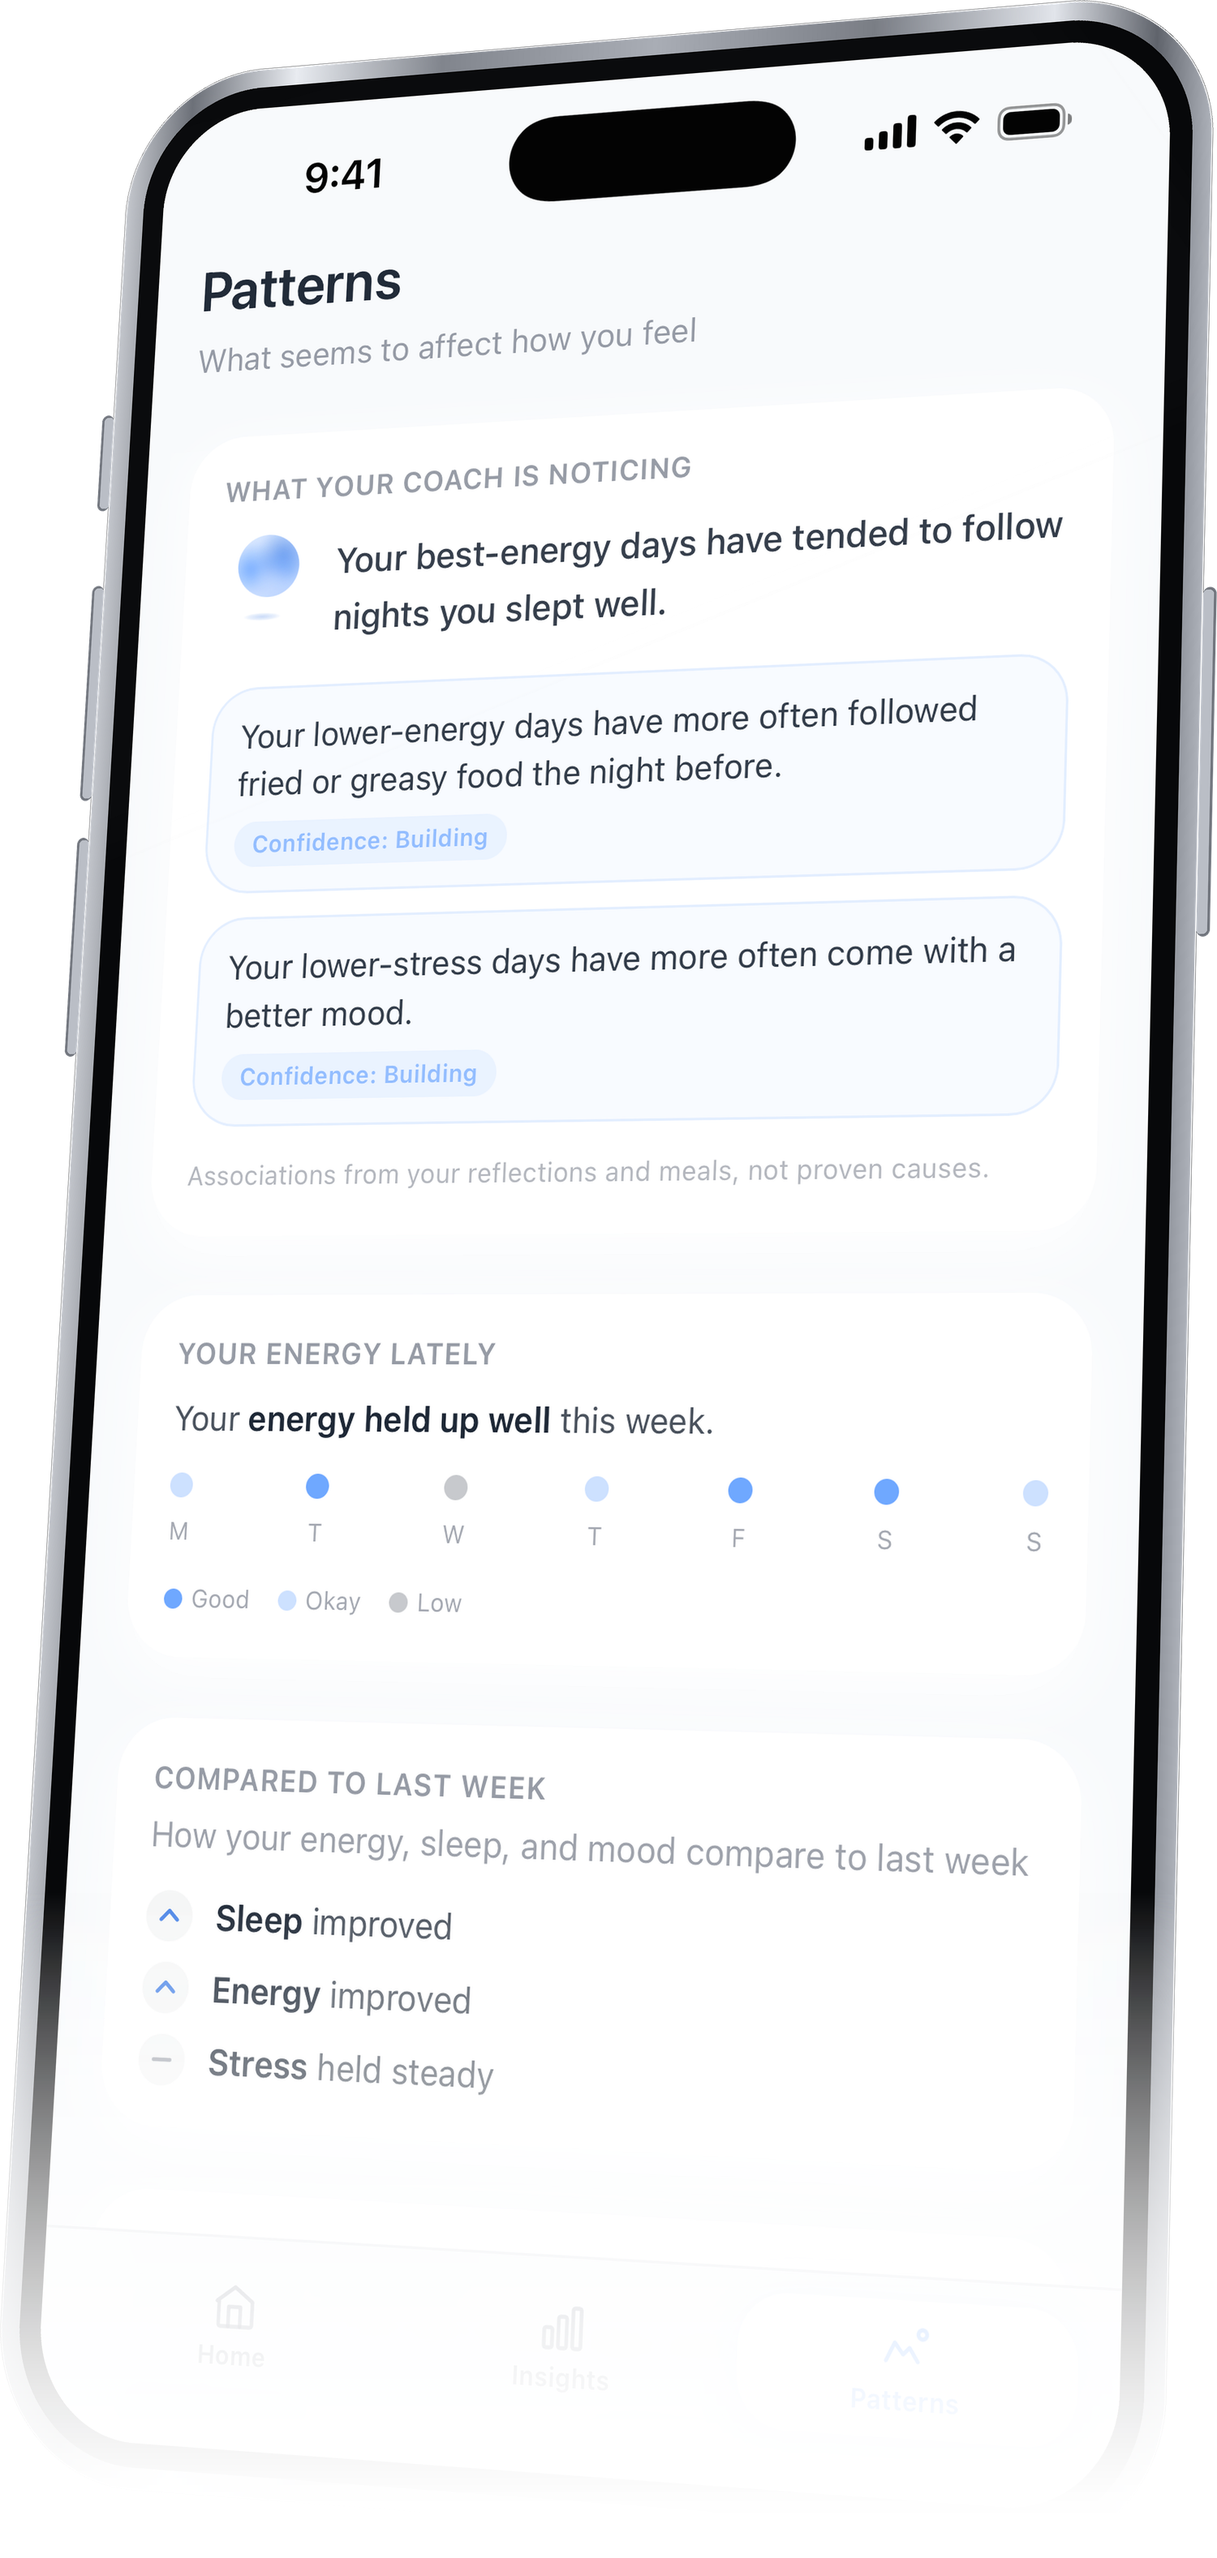
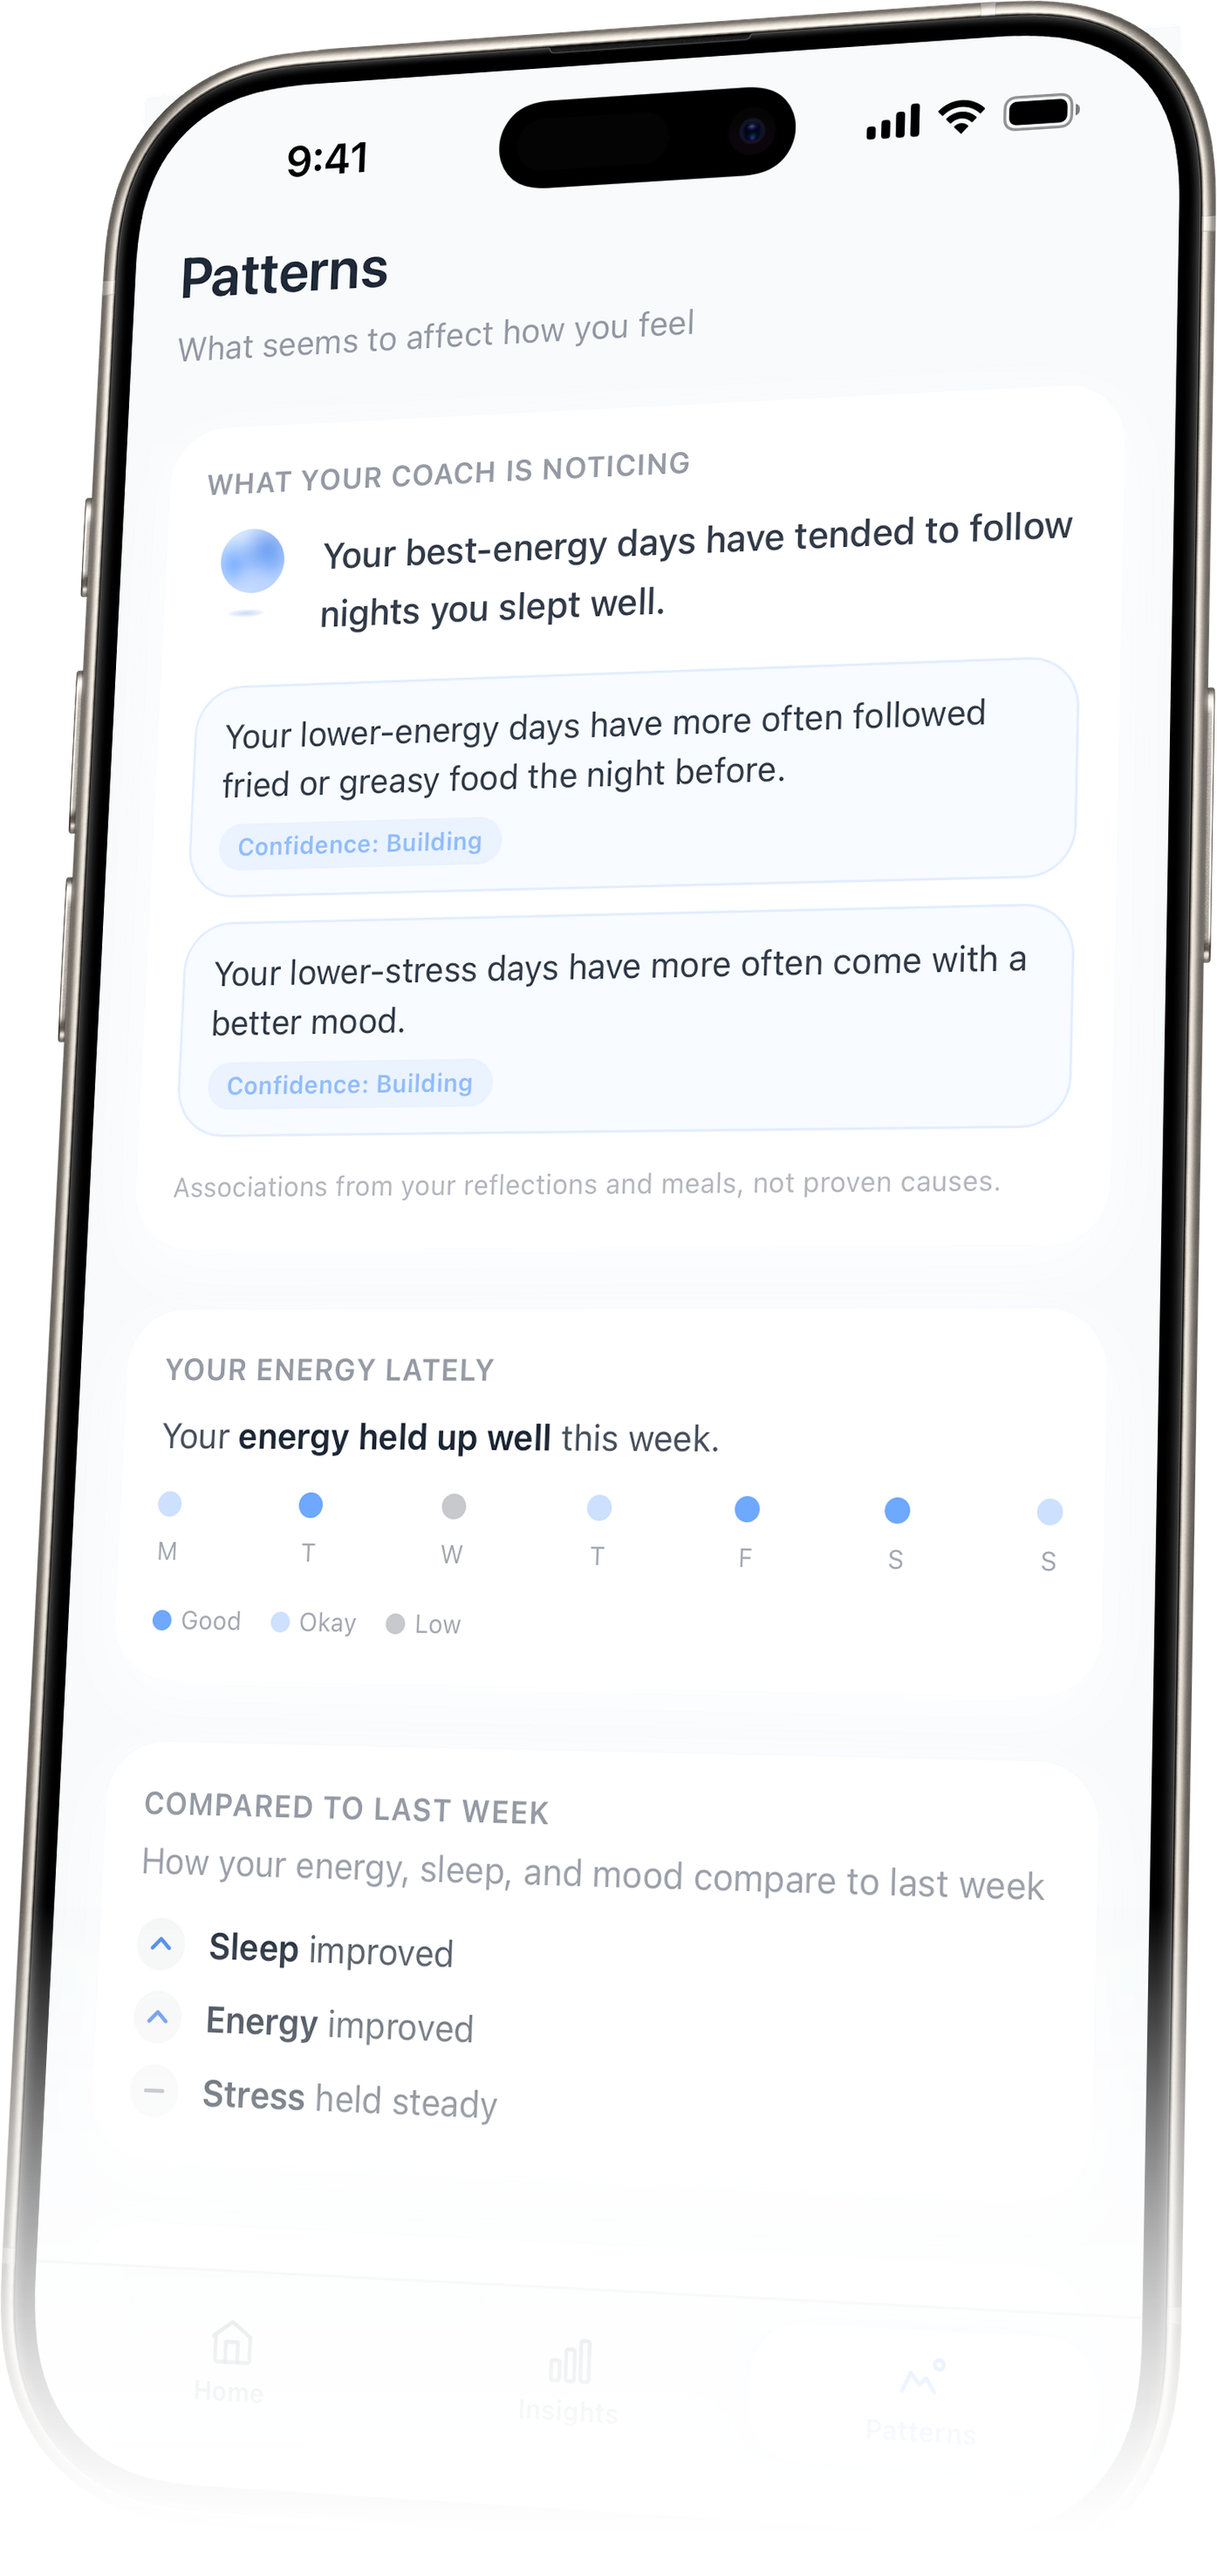
feat: use Apple's official iPhone 16 Pro Max bezel for the hero device
Screenshot composites into the real frame's 1320x2868 cutout at (75,66),
so it drops in 1:1 with no resampling. Apple ships these straight-on, so
the angle and the base dissolve are applied afterwards.

diff --git a/app/page.tsx b/app/page.tsx
@@ -61,7 +61,7 @@ export default function Home() {
                 src="/device/iphone-patterns.png"
                 alt="The Patterns screen in WhatYouAte"
                 width={1500}
-                height={3154}
+                height={3175}
                 priority
                 className="mx-auto block w-[78%] max-w-[360px] sm:w-[46%] sm:max-w-[430px]"
               />
